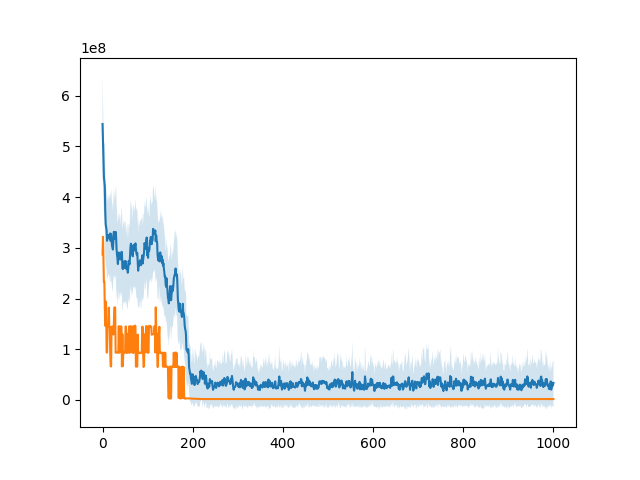
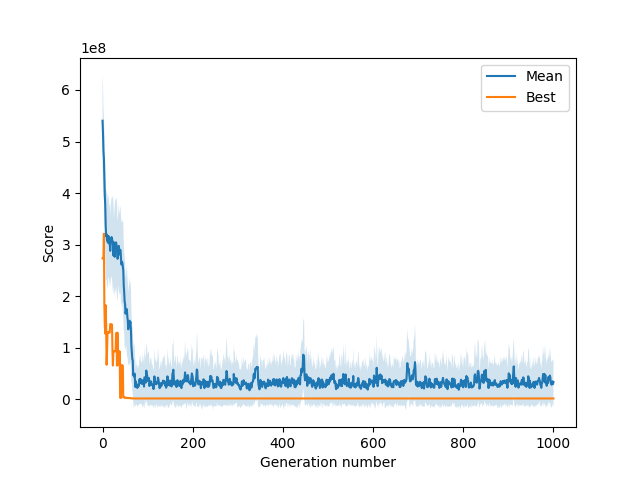
all of it

diff --git a/src/forrest_run.py b/src/forrest_run.py
@@ -96,6 +96,7 @@ for inst_name in inst_list:
 	print(inst_name)
 #----------------GA using grasp to generate first generation, returning best result-------------------------
 	hofscores = []
+	timegrasp = time.process_time()
 	num_infeas_solutions = 0
 	for _ in range(10): 
 		timegrasp = time.process_time()
@@ -133,7 +134,7 @@ for inst_name in inst_list:
 	
 	mean = round(np.mean(hofscores),4)
 	std = round(np.std(hofscores),4)
-	running_time = round(time.process_time() - timevnd, 3)
+	running_time = round(time.process_time() - timegrasp, 3)
 
 	toprint = "best: " + str(hofscores[0]) + ", mean: " + str(mean) + ", std: " + str(std) + ", infeas: " + str(num_infeas_solutions)+"/"+str(len(hofscores)) + " | " + str(running_time) + "s"
 

diff --git a/src/gen_analysis.py b/src/gen_analysis.py
@@ -24,9 +24,9 @@ HOFSIZE = 3
 TIMELIMIT = 60*10
 
 
-path = "instances2/0020_k2.txt"
+#path = "instances2/0020_k2.txt"
 #path = "instances2/berlin52_k2_1.txt"
-#path = "instances2/bier127_k3_1.txt"
+path = "instances2/bier127_k3_1.txt"
 inst = HotInstance(path)
 
 
@@ -74,6 +74,7 @@ plt.ylabel('Score')
 #plt.plot(iteration_nr, std_low)
 #plt.plot(iteration_nr, std_up)
 plt.fill_between(iteration_nr, std_low, std_up, alpha=.2)
+plt.legend()
 plt.show()
 
 
